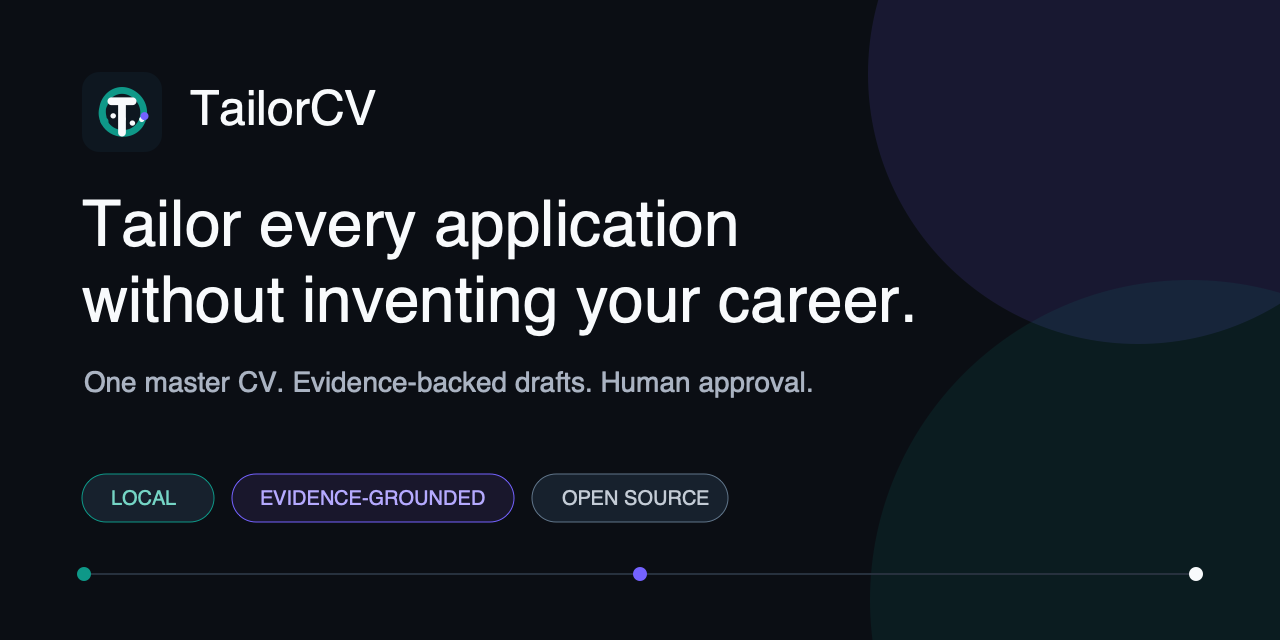
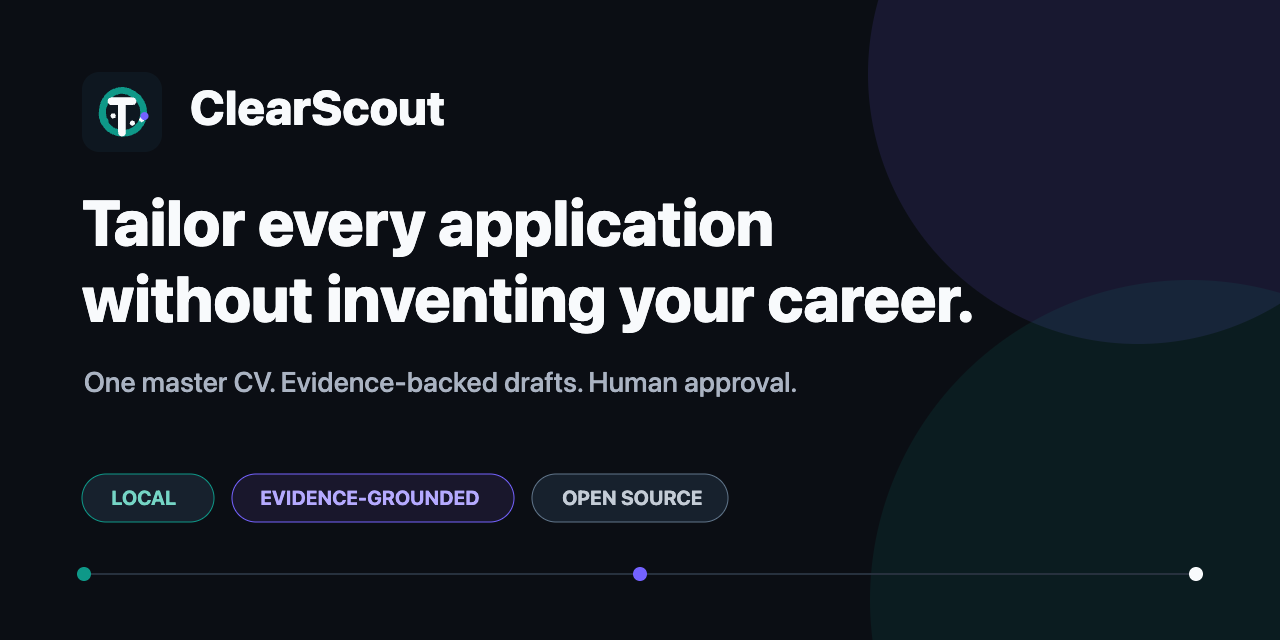
Name ClearScout in the decision records and changelog and re-render the social preview from its SVG

diff --git a/docs/architecture-decisions/0005-explicit-schema-and-transfer.md b/docs/architecture-decisions/0005-explicit-schema-and-transfer.md
@@ -9,15 +9,15 @@ coverage. Starting the application does not alter a database. Normal API, web,
 and worker startup refuses a missing or stale schema. It does not migrate it
 implicitly.
 
-`tailorcv init` may run migrations, create the workspace layout and database
+`clearscout init` may run migrations, create the workspace layout and database
 row, select a provider, import a CV, write settings, and register the first
-immutable master-CV version. `tailorcv db upgrade` is the other explicit
+immutable master-CV version. `clearscout db upgrade` is the other explicit
 schema-creation boundary. One `MasterCvService` serves both the CLI and HTTP.
 Text that already parses is adopted without a model call. A replacement appends
 a version instead of erasing one.
 
-Moving data between TailorCV databases is a separate, explicit operation.
-`tailorcv db import` copies rows from a source database into a fresh one. The
+Moving data between ClearScout databases is a separate, explicit operation.
+`clearscout db import` copies rows from a source database into a fresh one. The
 source is opened read-only, and the target must be empty. Unsupported tables are
 skipped and named. The target's integrity rules still apply on the way in.
 
@@ -25,5 +25,5 @@ skipped and named. The target's integrity rules still apply on the way in.
 
 There is no importer for whatever you were using before. An importer for another
 tool can only read its author's own directory layout, spreadsheet, sheet names,
-and column headings. `tailorcv db import` reads TailorCV's own databases and
+and column headings. `clearscout db import` reads ClearScout's own databases and
 nothing else.

diff --git a/docs/architecture-decisions/0013-published-policy-decides-reads.md b/docs/architecture-decisions/0013-published-policy-decides-reads.md
@@ -30,11 +30,12 @@ rows, guided campaign captures, relevance-review preparation, assisted
 recovery, and the rendered browser tier. Any read after a person-added row's
 first content read, including its next refresh, is a crawl.
 
-The exempt read is refused in three cases: a robots group names TailorCV's user
-agent explicitly, robots.txt cannot be read, or the page answers 401 or 403. The
+The exempt read is refused in three cases: a robots group names ClearScout's user
+agent, or its former name `tailorcv`, explicitly; robots.txt cannot be read; or
+the page answers 401 or 403. The
 exemption follows the whole redirect chain the client itself follows, up to the
 redirect limit. Each hop still resolves a public address and loads that host's
-own robots, and still refuses a group naming TailorCV's user agent. An exempt
+own robots, and still refuses a group naming either agent. An exempt
 read is never retried on Retry-After. The precheck a posting read runs before
 its request applies the same rule as the request.
 

diff --git a/CHANGELOG.md b/CHANGELOG.md
@@ -24,8 +24,9 @@ Entries start with the first change after this release.
   system keyring.
 - Backups, the database, and artifacts are written owner-private.
 - robots.txt decides every read except the first read of a posting URL you
-  enter yourself, which still stops when robots.txt names TailorCV. Board
+  enter yourself, which still stops when robots.txt names ClearScout or its
+  former name, TailorCV. Board
   and listing reads, refreshes, and every later read of a stored URL honor a
   robots disallow.
 
-[Unreleased]: https://github.com/sethstraw/tailorcv/commits/main
+[Unreleased]: https://github.com/sethstraw/clearscout/commits/main

diff --git a/docs/architecture-decisions/0011-search-is-configuration.md b/docs/architecture-decisions/0011-search-is-configuration.md
@@ -8,7 +8,7 @@ Where somebody may work, which arrangement they will accept, and what a role has
 to pay are facts about a person's search. They are not facts about their career
 record. They live in `search_parameters/` as one validated model, not as
 literals in `src/`. A file-based command reads `[job_search]` from
-`tailorcv.toml`. A workspace copies it at creation, then reads and edits its
+`clearscout.toml`. A workspace copies it at creation, then reads and edits its
 versioned database record. The same seed-once boundary applies to guardrails.
 
 Writes append, and the browser sends the version it started from. Two tabs

diff --git a/docs/architecture-decisions/0002-model-admin.md b/docs/architecture-decisions/0002-model-admin.md
@@ -4,7 +4,7 @@ Status: accepted
 
 ## Decision
 
-TailorCV mounts `starlette-admin` at `/admin` from `bootstrap/api.py`, generating
+ClearScout mounts `starlette-admin` at `/admin` from `bootstrap/api.py`, generating
 one view per mapped model from the SQLAlchemy registry. Every view offers no
 create, edit, or delete, so the admin declines the write in Python before any
 handler reaches the database. The `IMMUTABLE_TABLES` triggers still refuse

diff --git a/docs/architecture-decisions/README.md b/docs/architecture-decisions/README.md
@@ -1,6 +1,6 @@
 # Design decisions
 
-Why TailorCV is built this way, one architecture decision record per decision
+Why ClearScout is built this way, one architecture decision record per decision
 that would be expensive to reverse, each describing the rule the code follows.
 Product rules for evaluation, drafting, model calls, and discovery are in
 [ARCHITECTURE.md](../../ARCHITECTURE.md).

diff --git a/docs/architecture-decisions/0001-package-ownership.md b/docs/architecture-decisions/0001-package-ownership.md
@@ -4,7 +4,7 @@ Status: accepted
 
 ## Decision
 
-TailorCV has six top-level Python boundaries under `src/tailorcv`:
+ClearScout has six top-level Python boundaries under `src/clearscout`:
 
 - `bootstrap` composes the API, CLI, worker, and runtime setup;
 - `domain` owns framework-free vocabulary, identity, and invariants;

diff --git a/docs/architecture-decisions/0049-four-url-folds.md b/docs/architecture-decisions/0049-four-url-folds.md
@@ -4,7 +4,7 @@ Status: accepted
 
 ## Decision
 
-A posting URL answers five different questions. So TailorCV keeps five
+A posting URL answers five different questions. So ClearScout keeps five
 transforms and improvises no sixth.
 
 Publisher text is the column value itself: `discovery_url`, `canonical_url`,
